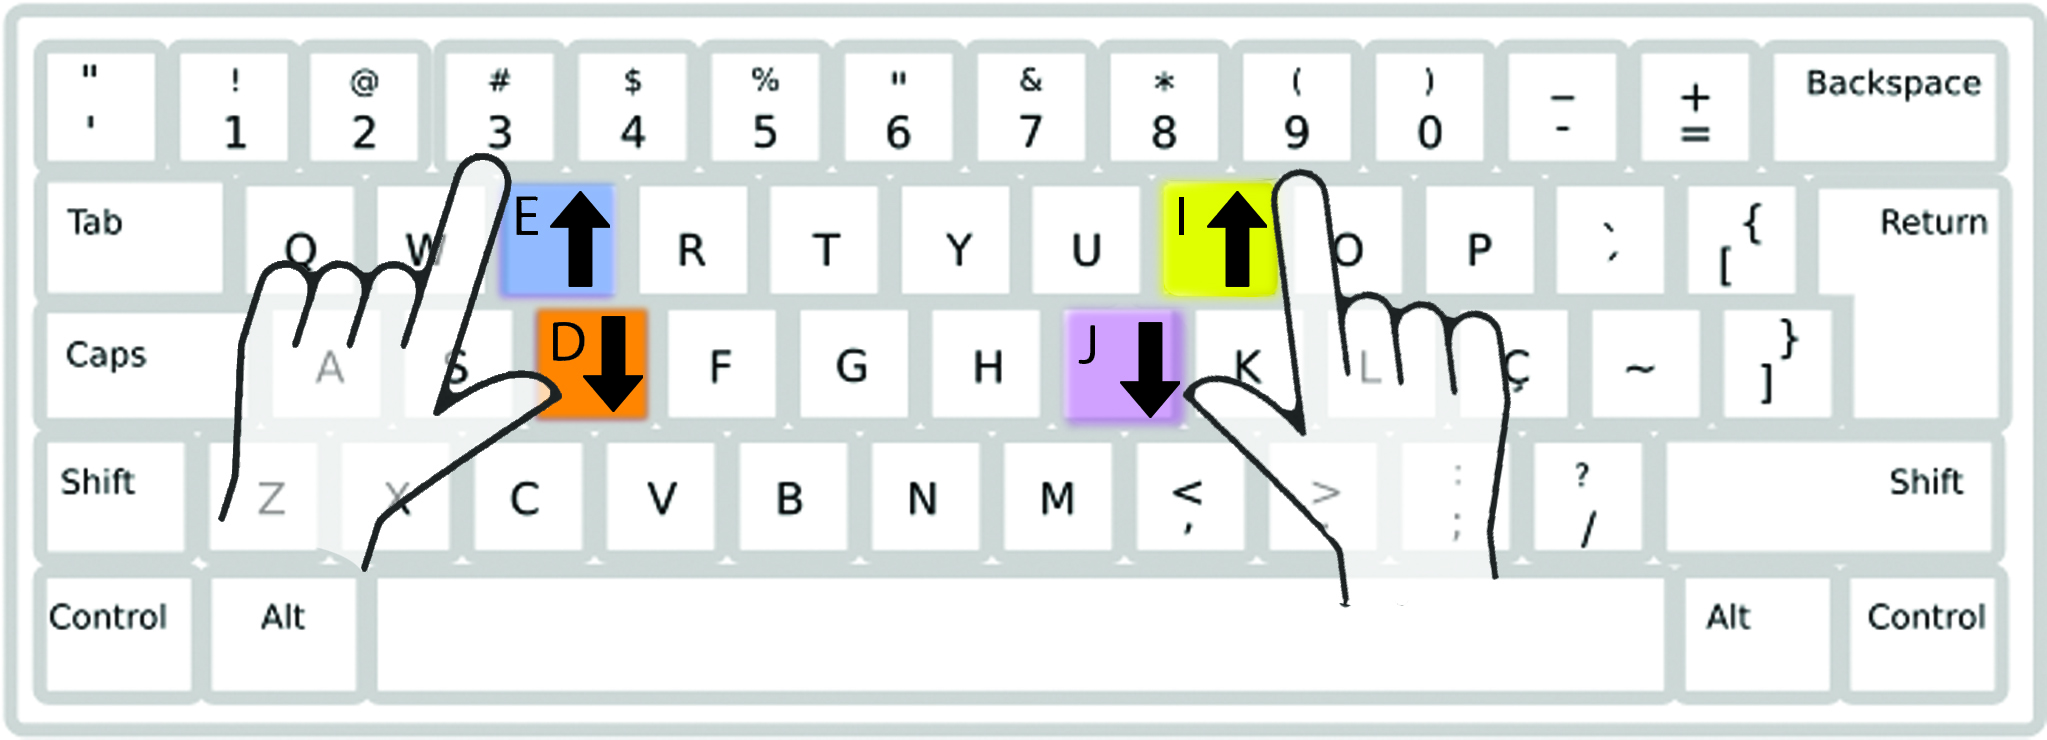
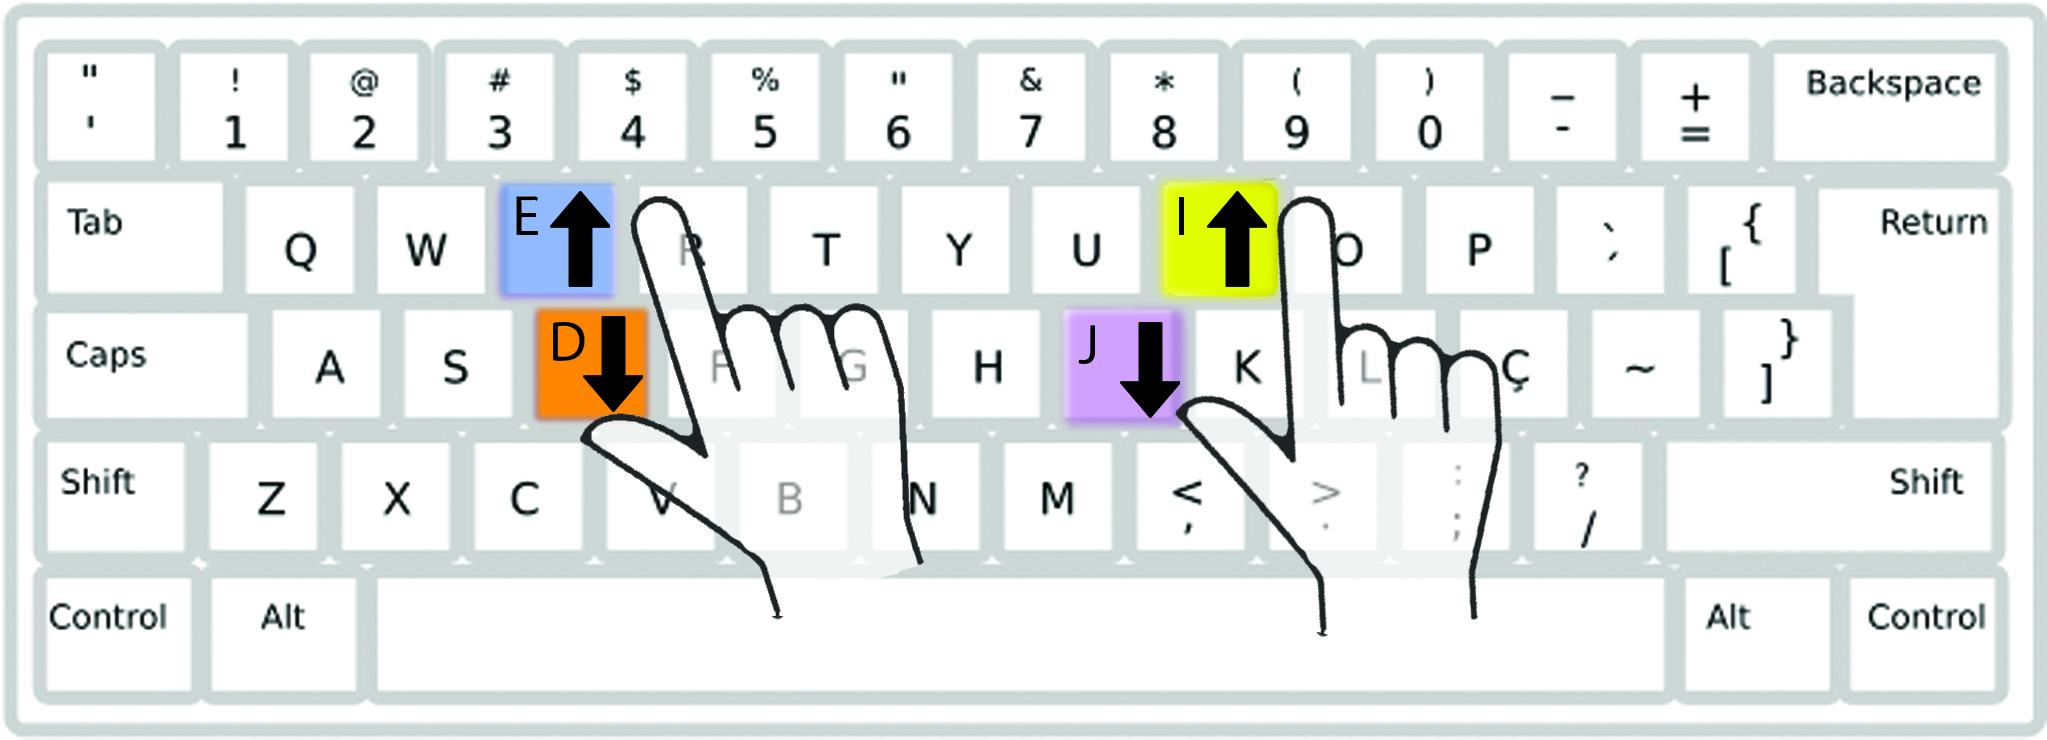
update

Changed region(s): [[0.0923, 0.1865, 0.4617, 0.8392], [0.554, 0.373, 0.7386, 0.8392], [0.6155, 0.2176, 0.6771, 0.3419]]

diff --git a/precision/index.html b/precision/index.html
@@ -11,28 +11,27 @@
 
 	<body>
         <main>
-            <!-- <button type="submit" onClick="window.location.reload()">Reload</button> -->
             <section>
                 <p style="text-align: center;">Use your mouse to push the car along the track to the [insert P] parking sign. Trace the track!</p>
             </section>
             <section id="game-bound" class="step-play-trial step-play-final">
                 <canvas id="canvas" width="1000" height="600"></canvas>
                 <img id="car" src="./images/car-green.svg" />
-                <img id="parking" src="./images/parking-green.svg" />                                                              -->
+                <img id="parking" src="./images/parking-green.svg" />
             </section>
             <div class="step-after-trial popup-area hidden">
-				<div class="popup">
-					<p>Trial game score: 99</p>
-					<p>Tip: trace even more carefully!</p>
-					<button id="btn-play-final" type="button">Final game next</button>
-				</div>
-			</div>
+							<div class="popup">
+								<p>Trial game score: 99</p>
+								<p>Tip: trace even more carefully!</p>
+								<button id="btn-play-final" type="button">Final game next</button>
+							</div>
+						</div>
             <div class="step-after-final popup-area hidden">
-				<div class="popup">
-					<p>Game over</p>
-					<button id="btn-next-game" type="button">Next game</button>
-				</div>
-			</div>
+							<div class="popup">
+								<p>Game over</p>
+								<button id="btn-next-game" type="button">Next game</button>
+							</div>
+						</div>
             <!-- <div id="timer">Time: </div>
             <button id="submit" onclick="submitGame()"></button> -->
         </main>

diff --git a/manual-dexterity/components/bizibuz-game/bizibuz-game.js b/manual-dexterity/components/bizibuz-game/bizibuz-game.js
@@ -246,6 +246,8 @@ window.customElements.define(
 					passive: false
 				});
 			}
+
+			document.getElementById('keyboard_gif').src = './assets/tutorial.jpeg'
 		
 			this.setupPressEventListenerToPlay()
 		}

diff --git a/index.html b/index.html
@@ -20,7 +20,7 @@
 				width: 100%;
 			}
 			body {
-				background-color: #e8c562;
+				/* background-color: #e8c562; */
 				display: flex;
 				justify-content: center;
 				align-items: center;
